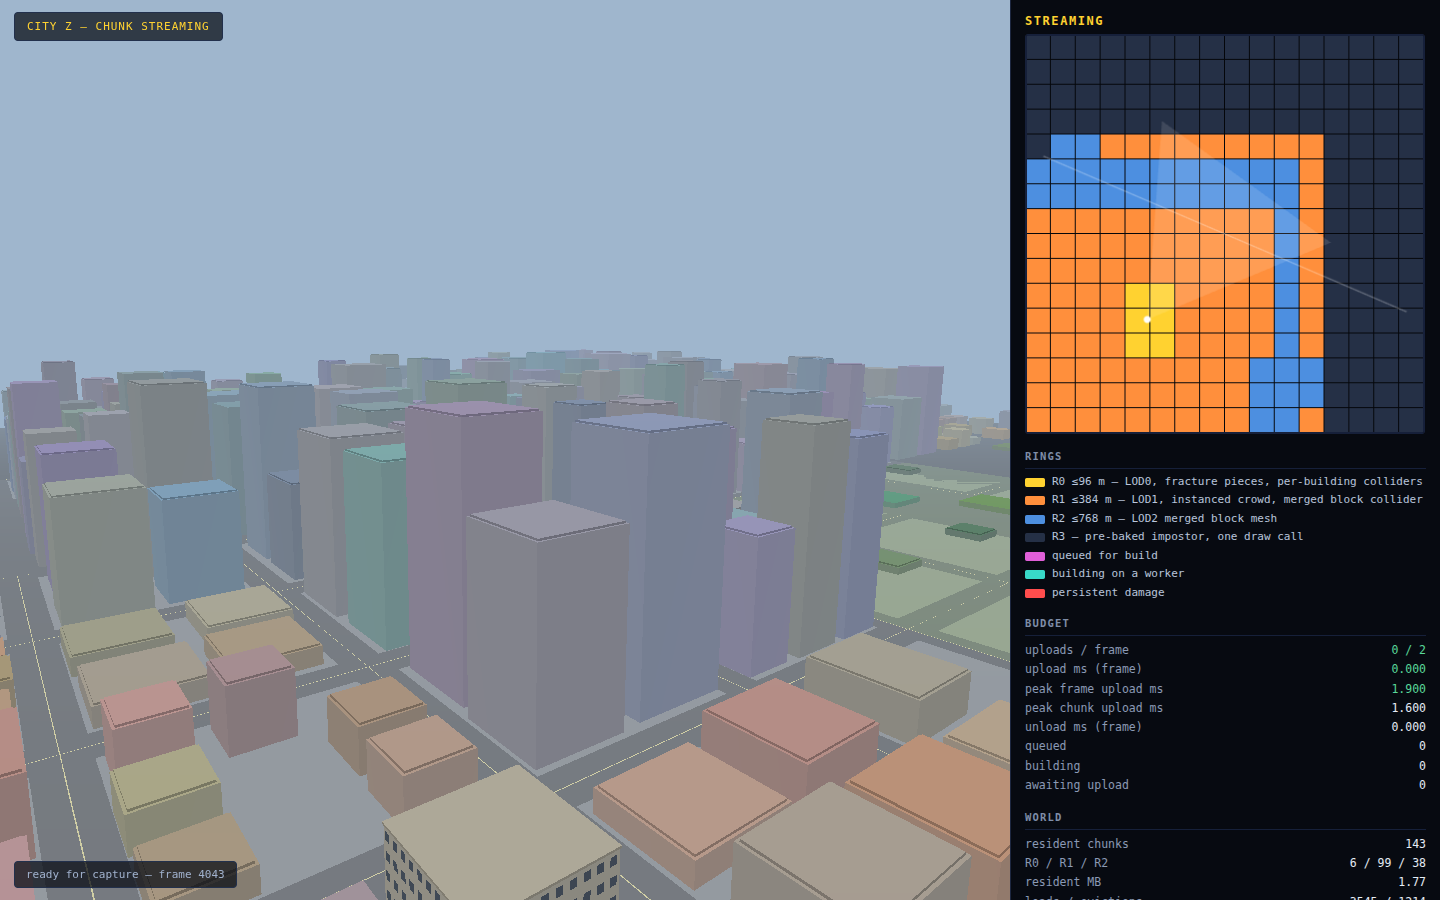
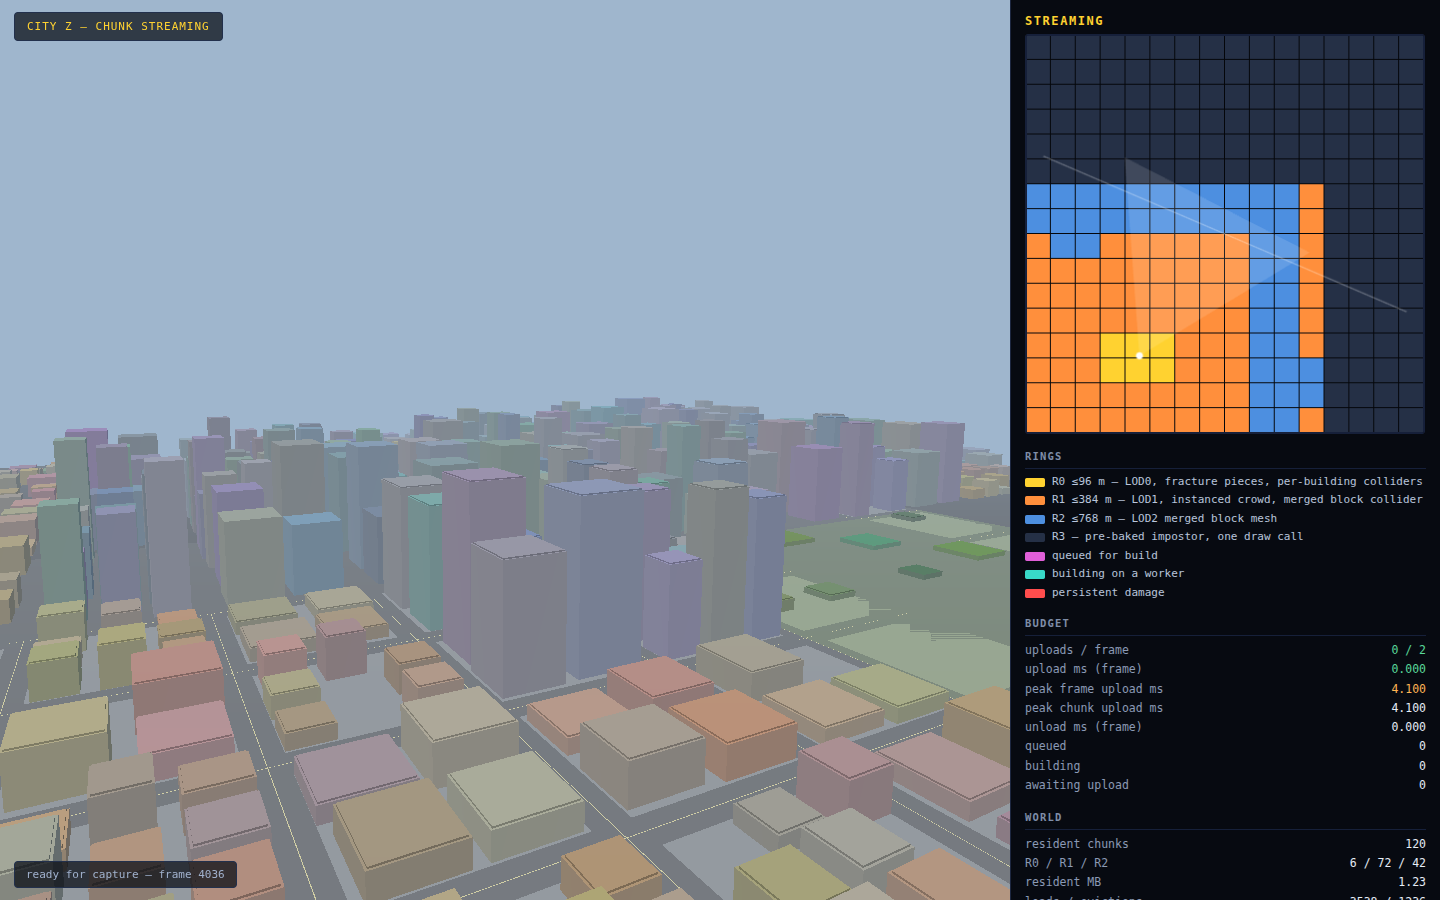
Streaming harness: 1500 m traverse, budget, leak and damage verification
Drives the streaming system through a real WebGL2 context, two real
module workers and real transferable buffers, then asserts the things
that matter rather than reporting a frame rate — the run is under
SwiftShader, a CPU rasteriser, so fps would measure the software
renderer and nothing else.

Measured over three out-and-back laps of the 1500 m district traverse
(1220 frames each, ~960 uploads and 296 evictions per lap):

  uploads/frame     max 2 of a cap of 2, in every frame of every lap
  upload ms         max 2.5 / 3.1 / 4.1, p95 0.4-0.5, mean 0.22-0.23
  frames over 50ms  0
  heap after lap    8.55 / 8.57 / 8.54 MB
  resident state    96 chunks, 1.38 MB, 97 live geometries — identical
                    after all three laps
  impostor ring     1125 buildings, 11.3k triangles, ONE draw call
  damage            9 towers, level 2, evict, reload: same 32 pieces
                    gone and a byte-identical content hash
  determinism       same world fingerprint across two page loads, and
                    92/92 chunks agreed between a worker build and a
                    main-thread rebuild

Three real bugs the harness found and this commit fixes on the way:
resident-byte accounting double-counted rebuilds, empty park parcels
registered zero-box colliders, and the harness's own frame driver ran
24 frames per animation frame — which never turned the event loop, so
no worker result could arrive and every "settle" spun to its cap.
[…]

diff --git a/harness/streaming.ts b/harness/streaming.ts
@@ -314,7 +314,7 @@ const SKY = new THREE.Color(0x9fb6cd);
 scene.background = SKY;
 // Fog is not decoration here: it is what lets the impostor ring hand over to
 // real geometry without a visible seam at 768 m.
-scene.fog = new THREE.FogExp2(SKY.getHex(), 0.00085);
+scene.fog = new THREE.FogExp2(SKY.getHex(), 0.0006);
 
 const camera = new THREE.PerspectiveCamera(62, 1, 1, 2400);
 camera.position.copy(PATH_START);
@@ -745,11 +745,23 @@ async function runLaps(count: number): Promise<ILapReport[]> {
  * Did the city assemble in front of the camera?
  *
  * Uses the COLD-START arrival order recorded from boot, when nothing was
- * resident and every chunk in range had to be built. Chunks are split into
- * those ahead of the camera and those behind it, and their arrival ranks are
- * compared. The strict form of the claim — every chunk ahead arrived before
- * every chunk behind — is reported separately from the mean, because the strict
- * form is what "what you are looking at loads first" actually promises.
+ * resident and every chunk in range had to be built, so the order chunks
+ * arrived in is the scheduler's own answer rather than a consequence of where
+ * the camera happened to fly.
+ *
+ * ── THE COMPARISON HAS TO BE MADE AT EQUAL DISTANCE ────────────────────────
+ * Comparing every chunk ahead against every chunk behind is the obvious test
+ * and it is the WRONG one, because it contradicts a deliberate design
+ * decision: ring membership is absolute, so a chunk one ring behind the camera
+ * is supposed to outrank a chunk six rings ahead of it. Detail near the player
+ * is never traded for coverage far from them. A whole-sample strict test
+ * therefore fails on a system that is behaving exactly as designed — which is
+ * precisely what an earlier revision of this harness reported.
+ *
+ * So chunks are bucketed by whole-chunk distance first, and ahead is compared
+ * against behind WITHIN each band, where ring and distance are held roughly
+ * constant and the view direction is the only variable left. That is the real
+ * claim: all else equal, what you are looking at loads first.
  */
 function priorityReport(): IPriorityReport {
   const start = coldStartOrigin;
@@ -760,24 +772,54 @@ function priorityReport(): IPriorityReport {
 
   const ahead: number[] = [];
   const behind: number[] = [];
-  let firstTenAhead = 0;
+  const byBand = new Map<number, { ahead: number[]; behind: number[] }>();
+  const classified: { rank: number; ahead: boolean }[] = [];
 
   for (const [index, at] of rank) {
     const dx = chunkCentreX(index) - start.x;
     const dz = chunkCentreZ(index) - start.z;
     const distance = Math.sqrt(dx * dx + dz * dz);
-    if (distance < CHUNK_SIZE * 2) continue; // too close to have a direction
+    // Inside two chunks there is no meaningful "direction" to a chunk centre,
+    // and those chunks are all R0 anyway.
+    if (distance < CHUNK_SIZE * 2) continue;
     const dot = (dx * direction.x + dz * direction.z) / distance;
-    if (dot > 0.6) {
-      ahead.push(at);
-      if (at < 10) firstTenAhead++;
-    } else if (dot < -0.6) {
-      behind.push(at);
+    const isAhead = dot > 0.6;
+    const isBehind = dot < -0.6;
+    if (!isAhead && !isBehind) continue;
+
+    const band = Math.round(
+      Math.max(Math.abs(dx), Math.abs(dz)) / CHUNK_SIZE
+    );
+    let bucket = byBand.get(band);
+    if (bucket === undefined) {
+      bucket = { ahead: [], behind: [] };
+      byBand.set(band, bucket);
     }
+    (isAhead ? bucket.ahead : bucket.behind).push(at);
+    (isAhead ? ahead : behind).push(at);
+    classified.push({ rank: at, ahead: isAhead });
   }
 
   const mean = (values: number[]): number =>
     values.length === 0 ? 0 : values.reduce((a, b) => a + b, 0) / values.length;
+
+  const bands: IPriorityBand[] = [...byBand.entries()]
+    .sort((a, b) => a[0] - b[0])
+    .map(([distanceChunks, bucket]) => ({
+      distanceChunks,
+      ahead: bucket.ahead.length,
+      behind: bucket.behind.length,
+      aheadMeanRank: mean(bucket.ahead),
+      behindMeanRank: mean(bucket.behind),
+      strictlySeparated:
+        bucket.ahead.length > 0 &&
+        bucket.behind.length > 0 &&
+        Math.max(...bucket.ahead) < Math.min(...bucket.behind),
+    }));
+
+  const comparable = bands.filter((band) => band.ahead >= 2 && band.behind >= 2);
+  classified.sort((a, b) => a.rank - b.rank);
+  const firstTwenty = classified.slice(0, 20);
 
   return {
     sampled: ahead.length + behind.length,
@@ -787,7 +829,14 @@ function priorityReport(): IPriorityReport {
     behindBestRank: behind.length === 0 ? 0 : Math.min(...behind),
     strictlyOrdered:
       ahead.length > 0 && behind.length > 0 && Math.max(...ahead) < Math.min(...behind),
-    firstTenAheadFraction: firstTenAhead / 10,
+    bands,
+    bandsComparable: comparable.length,
+    bandsOrderedByMean: comparable.filter((b) => b.aheadMeanRank < b.behindMeanRank).length,
+    bandsStrictlySeparated: comparable.filter((b) => b.strictlySeparated).length,
+    firstTwentyAheadFraction:
+      firstTwenty.length === 0
+        ? 0
+        : firstTwenty.filter((entry) => entry.ahead).length / firstTwenty.length,
   };
 }
 
@@ -985,10 +1034,12 @@ async function setCameraForShot(): Promise<void> {
   phase = 'framing';
   renderInterval = SCRIPTED_RENDER_INTERVAL;
 
-  // Over the downtown core looking across the whole district, so R0 detail,
-  // the R1/R2 merged blocks and the impostor horizon are all in one frame.
-  camera.position.set(-300, 120, 330);
-  camera.lookAt(240, -30, -420);
+  // High over the southern edge looking north across the whole district, so all
+  // four bands land in one frame: R0 fracture-piece detail underneath, the R1
+  // and R2 merged blocks stepping away, and the baked impostor skyline on the
+  // horizon fading into the fog.
+  camera.position.set(-330, 155, 470);
+  camera.lookAt(190, 12, -540);
   camera.updateMatrixWorld();
   await settle();
 

diff --git a/harness/streaming.verify.ts b/harness/streaming.verify.ts
@@ -91,6 +91,15 @@ interface ILapReport {
   geometries: number;
 }
 
+interface IPriorityBand {
+  distanceChunks: number;
+  ahead: number;
+  behind: number;
+  aheadMeanRank: number;
+  behindMeanRank: number;
+  strictlySeparated: boolean;
+}
+
 interface IPriorityReport {
   sampled: number;
   aheadMeanRank: number;
@@ -98,7 +107,11 @@ interface IPriorityReport {
   aheadWorstRank: number;
   behindBestRank: number;
   strictlyOrdered: boolean;
-  firstTenAheadFraction: number;
+  bands: IPriorityBand[];
+  bandsComparable: number;
+  bandsOrderedByMean: number;
+  bandsStrictlySeparated: number;
+  firstTwentyAheadFraction: number;
 }
 
 interface IDamageReport {
@@ -350,6 +363,13 @@ async function main(): Promise<void> {
     if (boot.residentChunks < 50) {
       failures.push(`cold start left only ${boot.residentChunks} chunks resident`);
     }
+    // The cold start pays first-use shader compilation on its very first
+    // upload, which no later frame repeats. It still has to clear the hard
+    // 50 ms bar — a boot hitch is a hitch — and it is reported separately so it
+    // can never hide inside the lap figures.
+    if (boot.peakUploadMs > 50) {
+      failures.push(`cold start had a frame spending ${boot.peakUploadMs.toFixed(1)} ms uploading`);
+    }
 
     for (const lap of laps) {
       if (lap.maxUploadsPerFrame > 2) {
@@ -433,10 +453,29 @@ async function main(): Promise<void> {
           `${priority.aheadMeanRank.toFixed(1)} vs behind ${priority.behindMeanRank.toFixed(1)}`
       );
     }
-    if (!priority.strictlyOrdered) {
-      warnings.push(
-        `load order is not strictly separated: worst chunk ahead arrived at rank ` +
-          `${priority.aheadWorstRank}, best behind at ${priority.behindBestRank}`
+    // The real assertion: at EQUAL distance, ahead must beat behind in every
+    // band. Comparing across bands would contradict ring dominance, which is a
+    // deliberate design decision rather than a defect.
+    if (priority.bandsComparable < 3) {
+      failures.push(`only ${priority.bandsComparable} distance bands had chunks on both sides`);
+    }
+    if (priority.bandsOrderedByMean < priority.bandsComparable) {
+      const offenders = priority.bands
+        .filter((b) => b.ahead >= 2 && b.behind >= 2 && b.aheadMeanRank >= b.behindMeanRank)
+        .map((b) => `${b.distanceChunks} chunks (${b.aheadMeanRank.toFixed(0)} vs ${b.behindMeanRank.toFixed(0)})`);
+      failures.push(
+        `${priority.bandsComparable - priority.bandsOrderedByMean} distance band(s) loaded ` +
+          `what was behind the camera first: ${offenders.join(', ')}`
+      );
+    }
+    // Where the earliest arrivals went. A Chebyshev band still spans a 1.4x
+    // range of true distance and the PVS penalty reorders within it, so total
+    // separation inside a band is not something the design promises — but a
+    // clear majority of the first arrivals facing the camera is.
+    if (priority.firstTwentyAheadFraction < 0.5) {
+      failures.push(
+        `only ${(priority.firstTwentyAheadFraction * 100).toFixed(0)}% of the first 20 arrivals ` +
+          'were in front of the camera'
       );
     }
 
@@ -514,8 +553,23 @@ async function main(): Promise<void> {
           `geometries ${lap.geometries} | ring changes ${lap.ringTransitions}`
       );
     }
-    console.log('\n──────── priority ────────');
-    console.log(JSON.stringify(priority, null, 2));
+    console.log('\n──────── priority (arrival rank, cold start) ────────');
+    console.log(
+      `overall: ahead mean ${priority.aheadMeanRank.toFixed(1)} vs behind ` +
+        `${priority.behindMeanRank.toFixed(1)} over ${priority.sampled} chunks; ` +
+        `${(priority.firstTwentyAheadFraction * 100).toFixed(0)}% of the first 20 arrivals faced the camera`
+    );
+    for (const band of priority.bands) {
+      console.log(
+        `  ${band.distanceChunks} chunks out: ahead ${band.ahead} @ ${band.aheadMeanRank.toFixed(1)} | ` +
+          `behind ${band.behind} @ ${band.behindMeanRank.toFixed(1)}` +
+          (band.ahead >= 2 && band.behind >= 2
+            ? band.aheadMeanRank < band.behindMeanRank
+              ? '  OK'
+              : '  INVERTED'
+            : '  (too few to compare)')
+      );
+    }
     console.log('\n──────── damage ────────');
     console.log(JSON.stringify(damage, null, 2));
     console.log('\n──────── determinism ────────');
